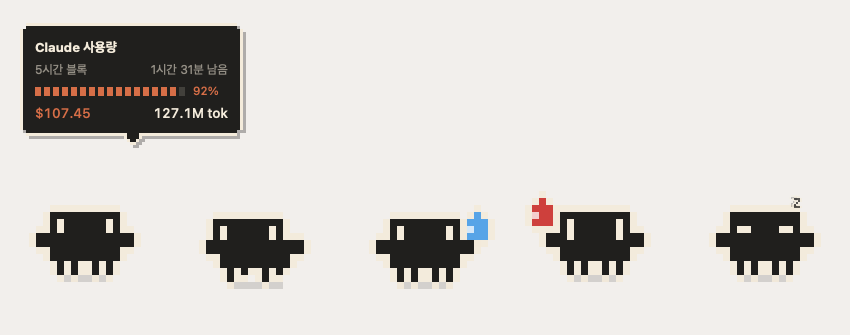
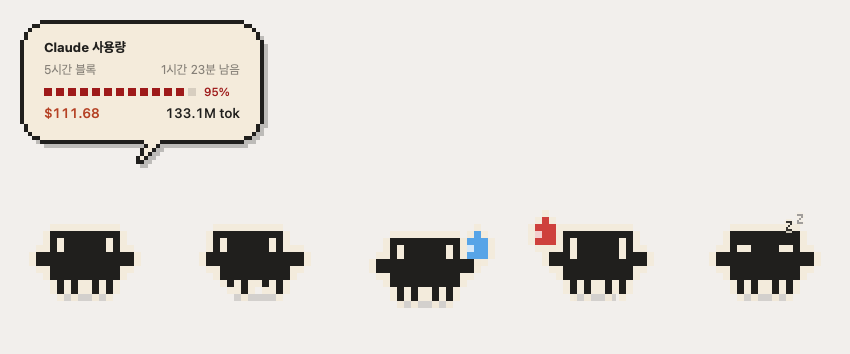
말풍선을 만화식 도트 풍선으로 다시 그림
네모난 대화상자 대신 크림색 종이에 숯색 외곽선을 두른 둥근 풍선으로 바꿨다.
모서리는 원을 칸으로 근사해 계단처럼 깎이고, 꼬리도 비스듬한 계단이다.

- 도안을 칸 집합으로 만들고 한 칸 깎아낸 안쪽을 덧칠해 테두리를 얻는다
- 같은 줄에서 이어진 칸은 한 사각형으로 묶어 그린다
- 도안은 크기와 꼬리 위치가 바뀔 때만 다시 계산한다
- 꼬리 끝이 마스코트 한가운데를 가리키도록 위치를 맞춤

diff --git a/buddy/bubble.py b/buddy/bubble.py
@@ -1,11 +1,14 @@
 """클릭했을 때 뜨는 말풍선.
 
-마스코트와 같은 도트 감성으로 그린다. 모서리는 둥글리지 않고 칸을 덜어내고,
-테두리와 꼬리도 칸을 쌓아 만든다. 그림자도 흐리지 않고 한 칸 밀어 찍는다.
+만화에 나오는 둥근 말풍선을 도트로 찍는다. 모서리는 원을 칸으로 근사해
+계단처럼 깎이고, 꼬리는 왼쪽 아래로 비스듬히 내려간다. 테두리는 도안을
+한 칸 깎아낸 안쪽 면을 덧칠해 만든다 — 마스코트를 그리는 방식과 같다.
 한글은 도트 폰트로 찍을 수 없어서 글자만 시스템 폰트를 쓴다.
 """
 
 from __future__ import annotations
+
+from collections import defaultdict
 
 import objc
 from AppKit import (
@@ -13,8 +16,8 @@ from AppKit import (
     NSColor,
     NSFont,
     NSFontAttributeName,
-    NSForegroundColorAttributeName,
     NSFontWeightMedium,
+    NSForegroundColorAttributeName,
     NSGraphicsContext,
     NSView,
 )
@@ -22,39 +25,46 @@ from Foundation import NSMakePoint, NSMakeRect, NSString
 
 from .usage import Snapshot, fmt_duration, fmt_tokens
 
-P = 3.0                 # 도트 한 칸
-BORDER = 3.0            # 테두리 두께 (한 칸)
-CORNER = 2 * P          # 모서리에서 덜어내는 크기
-PAD_X = 12.0
-PAD_TOP = 10.0
-PAD_BOTTOM = 12.0
+U = 4.0                 # 도트 한 칸
+RADIUS_CELLS = 8        # 모서리 원의 반지름 (칸)
+PAD_X = 24.0
+PAD_TOP = 16.0
+PAD_BOTTOM = 18.0
 CONTENT_W = 196.0
-TAIL_W = 6 * P
-TAIL_H = 3 * P
+
+# 꼬리 도안. (칸x, 칸y) — y 0 이 맨 아래 끝, 위로 갈수록 넓어지며 오른쪽으로 눕는다
+_TAIL = [
+    (0, 0), (1, 0),                              # 끝
+    (0, 1), (1, 1), (2, 1),
+    (1, 2), (2, 2), (3, 2),
+    (1, 3), (2, 3), (3, 3), (4, 3),
+    (2, 4), (3, 4), (4, 4), (5, 4),              # 풍선에 붙는 줄
+]
+TAIL_ROWS = 5
+TAIL_H = TAIL_ROWS * U
+_TAIL_TIP_COL = 0       # 꼬리 끝이 놓이는 칸 (마스코트를 가리키는 지점)
 
 H_TITLE = 24.0
 H_ROW = 20.0
 H_BAR = 24.0
-H_NOTE = 17.0
-H_GAP = 6.0
-
-_HEIGHTS = {"title": H_TITLE, "row": H_ROW, "bar": H_BAR, "note": H_NOTE, "gap": H_GAP}
+H_NOTE = 18.0
+_HEIGHTS = {"title": H_TITLE, "row": H_ROW, "bar": H_BAR, "note": H_NOTE}
 
 
 def _rgb(r, g, b, a=1.0):
     return NSColor.colorWithSRGBRed_green_blue_alpha_(r, g, b, a)
 
 
-# 마스코트와 같은 배색
-INK = _rgb(0.169, 0.161, 0.153)          # 몸통 색 = 말풍선 바탕
-CREAM = _rgb(0.965, 0.937, 0.886)        # 눈·테두리 색 = 글자
-CREAM_DIM = _rgb(0.965, 0.937, 0.886, 0.55)
-TRACK = _rgb(0.965, 0.937, 0.886, 0.16)
-DROP = _rgb(0.0, 0.0, 0.0, 0.28)
+# 마스코트와 같은 배색을 뒤집어 쓴다 — 크림색 종이에 숯색 선
+PAPER = _rgb(0.965, 0.937, 0.886)
+INK = _rgb(0.169, 0.161, 0.153)
+INK_DIM = _rgb(0.169, 0.161, 0.153, 0.52)
+TRACK = _rgb(0.169, 0.161, 0.153, 0.14)
+DROP = _rgb(0.0, 0.0, 0.0, 0.22)
 
-BAR_OK = _rgb(0.451, 0.729, 0.541)
-BAR_WARN = _rgb(0.878, 0.514, 0.349)
-BAR_DANGER = _rgb(0.851, 0.310, 0.267)
+BAR_OK = _rgb(0.306, 0.549, 0.388)
+BAR_WARN = _rgb(0.769, 0.337, 0.184)
+BAR_DANGER = _rgb(0.690, 0.169, 0.133)
 
 
 def bar_color(percent: float):
@@ -99,66 +109,76 @@ def rows_from_snapshot(snap: Snapshot) -> list[dict]:
     return rows
 
 
+def _round_up(value: float) -> float:
+    """칸 격자에 맞춰 올림. 반 칸짜리 조각이 생기면 도트가 흐려진다."""
+    return -(-value // U) * U
+
+
 def measure(rows: list[dict]) -> tuple[float, float]:
-    height = PAD_TOP + PAD_BOTTOM + BORDER * 2 + TAIL_H
-    for row in rows:
-        height += _HEIGHTS[row["type"]]
-    return CONTENT_W + PAD_X * 2 + BORDER * 2, height
+    body = PAD_TOP + PAD_BOTTOM + sum(_HEIGHTS[row["type"]] for row in rows)
+    return _round_up(CONTENT_W + PAD_X * 2), _round_up(body) + TAIL_H
 
 
-def _notched_rect(x, y, w, h, c):
-    """네 모서리에서 정사각형을 하나씩 덜어낸 사각형. 도트 그림의 둥근 모서리."""
-    points = [
-        (x + c, y), (x + w - c, y), (x + w - c, y + c), (x + w, y + c),
-        (x + w, y + h - c), (x + w - c, y + h - c), (x + w - c, y + h), (x + c, y + h),
-        (x + c, y + h - c), (x, y + h - c), (x, y + c), (x + c, y + c),
-    ]
-    path = NSBezierPath.bezierPath()
-    path.moveToPoint_(NSMakePoint(*points[0]))
-    for point in points[1:]:
-        path.lineToPoint_(NSMakePoint(*point))
-    path.closePath()
-    return path
+def _balloon_cells(wc: int, hc: int, radius: int) -> set[tuple[int, int]]:
+    """모서리가 원으로 깎인 사각형을 칸 단위로 채운다."""
+    cells = set()
+    for y in range(hc):
+        for x in range(wc):
+            qx = max(radius - (x + 0.5), (x + 0.5) - (wc - radius), 0.0)
+            qy = max(radius - (y + 0.5), (y + 0.5) - (hc - radius), 0.0)
+            if qx * qx + qy * qy <= radius * radius:
+                cells.add((x, y))
+    return cells
 
 
-def _silhouette(width: float, height: float, tip_x: float, inset: float):
-    """말풍선 바깥선(inset=0)과 안쪽 면(inset=BORDER)을 같은 규칙으로 만든다."""
-    body_bottom = TAIL_H
-    body = _notched_rect(
-        inset,
-        body_bottom + inset,
-        width - inset * 2,
-        height - body_bottom - inset * 2,
-        CORNER - inset,
-    )
+def _erode(cells: set[tuple[int, int]]) -> set[tuple[int, int]]:
+    """상하좌우가 모두 채워진 칸만 남긴다. 남은 가장자리가 테두리가 된다."""
+    return {
+        (x, y)
+        for (x, y) in cells
+        if (x + 1, y) in cells
+        and (x - 1, y) in cells
+        and (x, y + 1) in cells
+        and (x, y - 1) in cells
+    }
 
-    if inset == 0:
-        # 아래로 갈수록 좁아지는 칸 세 개
-        steps = [(6 * P, P), (4 * P, P), (2 * P, P)]
-        y = body_bottom
-        for w, h in steps:
-            y -= h
-            body.appendBezierPathWithRect_(NSMakeRect(tip_x - w / 2, y, w, h))
-    else:
-        # 바깥선보다 한 칸씩 좁고 한 칸 짧게. 몸통과 만나는 지점은 겹쳐서 이어 붙인다.
-        body.appendBezierPathWithRect_(
-            NSMakeRect(tip_x - 2 * P, body_bottom - P, 4 * P, P + BORDER)
-        )
-        body.appendBezierPathWithRect_(
-            NSMakeRect(tip_x - P, body_bottom - 2 * P, 2 * P, P)
-        )
-    return body
+
+def _runs(cells: set[tuple[int, int]]):
+    """같은 줄에서 이어진 칸을 한 덩어리로 묶는다. 사각형 수를 줄여 준다."""
+    rows: dict[int, list[int]] = defaultdict(list)
+    for (x, y) in cells:
+        rows[y].append(x)
+    for y, xs in rows.items():
+        xs.sort()
+        start = prev = xs[0]
+        for x in xs[1:]:
+            if x == prev + 1:
+                prev = x
+                continue
+            yield start, prev, y
+            start = prev = x
+        yield start, prev, y
+
+
+def _shape(wc: int, hc: int, tail_col: int) -> tuple[set, set]:
+    """말풍선 전체 칸과, 한 칸 깎아낸 안쪽 칸."""
+    cells = _balloon_cells(wc, hc, RADIUS_CELLS)
+    for (dx, dy) in _TAIL:
+        cells.add((tail_col - _TAIL_TIP_COL + dx, dy - TAIL_ROWS))
+    return cells, _erode(cells)
 
 
 class BubbleView(NSView):
-    """말풍선 본체. 아래쪽에 계단식 꼬리가 달린다."""
+    """말풍선 본체. 도안을 만들어 두고 크기가 바뀔 때만 다시 계산한다."""
 
     def initWithFrame_(self, frame):
         self = objc.super(BubbleView, self).initWithFrame_(frame)
         if self is None:
             return None
         self._rows: list[dict] = []
-        self._tail_dx = 0.0
+        self._tail_col = None   # 아직 정해지지 않음 — 기본은 가운데
+        self._cache_key = None
+        self._cache = None
         return self
 
     def setRows_(self, rows):
@@ -166,68 +186,79 @@ class BubbleView(NSView):
         self.setNeedsDisplay_(True)
 
     def setTailOffset_(self, dx):
-        """말풍선이 화면 끝에서 밀렸을 때도 꼬리가 마스코트를 가리키게 한다."""
-        limit = CONTENT_W / 2 - TAIL_W
-        self._tail_dx = max(-limit, min(limit, float(dx)))
-        self.setNeedsDisplay_(True)
+        """말풍선이 화면 끝에서 밀렸을 때도 꼬리 끝이 마스코트를 가리키게 한다."""
+        wc = max(1, int(self.bounds().size.width / U))
+        col = int(round((self.bounds().size.width / 2 + float(dx)) / U)) - 1
+        col = max(RADIUS_CELLS, min(wc - RADIUS_CELLS - 6, col))
+        if col != self._tail_col:
+            self._tail_col = col
+            self.setNeedsDisplay_(True)
 
     def isFlipped(self):
         return False
 
+    @objc.python_method
+    def _shape_for(self, width, height):
+        wc = int(width / U)
+        hc = int((height - TAIL_H) / U)
+        tail_col = self._tail_col if self._tail_col is not None else wc // 2 - 2
+        key = (wc, hc, tail_col)
+        if key != self._cache_key:
+            self._cache_key = key
+            self._cache = _shape(wc, hc, tail_col)
+        return self._cache
+
     def drawRect_(self, _rect):
         bounds = self.bounds()
         width, height = bounds.size.width, bounds.size.height
-        tip_x = width / 2 + self._tail_dx
+        cells, inner = self._shape_for(width, height)
 
         ctx = NSGraphicsContext.currentContext()
         ctx.saveGraphicsState()
         ctx.setShouldAntialias_(False)
 
         # 흐린 그림자 대신 한 칸 밀어 찍은 단단한 그림자
-        shadow = _silhouette(width - P, height - P, tip_x, 0)
-        transform = NSBezierPath.bezierPath()
-        transform.appendBezierPath_(shadow)
         DROP.setFill()
-        self._offset(transform, P, -P).fill()
-
-        CREAM.setFill()
-        _silhouette(width - P, height - P, tip_x, 0).fill()
+        self._fill(cells, U, -U)
         INK.setFill()
-        _silhouette(width - P, height - P, tip_x, BORDER).fill()
+        self._fill(cells, 0, 0)
+        PAPER.setFill()
+        self._fill(inner, 0, 0)
 
         ctx.restoreGraphicsState()
         self._draw_rows(width, height)
 
     @objc.python_method
-    def _offset(self, path, dx, dy):
-        from AppKit import NSAffineTransform
-
-        tf = NSAffineTransform.transform()
-        tf.translateXBy_yBy_(dx, dy)
-        return tf.transformBezierPath_(path)
+    def _fill(self, cells, dx, dy):
+        path = NSBezierPath.bezierPath()
+        for x0, x1, y in _runs(cells):
+            path.appendBezierPathWithRect_(
+                NSMakeRect(x0 * U + dx, TAIL_H + y * U + dy, (x1 - x0 + 1) * U, U)
+            )
+        path.fill()
 
     @objc.python_method
     def _draw_rows(self, width, height):
-        x = BORDER + PAD_X
-        y = height - P - BORDER - PAD_TOP
-        inner = width - P - (BORDER + PAD_X) * 2
+        x = PAD_X
+        y = height - PAD_TOP
+        inner = width - PAD_X * 2
 
         for row in self._rows:
             kind = row["type"]
             y -= _HEIGHTS[kind]
             if kind == "title":
-                self._text(row["text"], x, y + 5, NSFont.boldSystemFontOfSize_(13.0), CREAM)
+                self._text(row["text"], x, y + 5, NSFont.boldSystemFontOfSize_(13.0), INK)
             elif kind == "row":
                 strong = row.get("strong", False)
                 font = _num_font(13.5) if strong else NSFont.systemFontOfSize_(12.0)
-                left = BAR_WARN if strong else (CREAM_DIM if row.get("dim") else CREAM)
-                right = CREAM if strong else (CREAM_DIM if row.get("dim") else CREAM)
+                left = BAR_WARN if strong else (INK_DIM if row.get("dim") else INK)
+                right = INK if strong else (INK_DIM if row.get("dim") else INK)
                 self._text(row["left"], x, y + 3, font, left)
                 self._text_right(row["right"], x + inner, y + 3, font, right)
             elif kind == "bar":
                 self._bar(x, y + 8, inner, row["percent"])
             elif kind == "note":
-                self._text(row["text"], x, y + 3, NSFont.systemFontOfSize_(11.5), CREAM_DIM)
+                self._text(row["text"], x, y + 3, NSFont.systemFontOfSize_(11.5), INK_DIM)
 
     @objc.python_method
     def _bar(self, x, y, width, percent):
@@ -235,32 +266,25 @@ class BubbleView(NSView):
         ctx.saveGraphicsState()
         ctx.setShouldAntialias_(False)
 
-        height = 3 * P
+        height = 2 * U
         font = _num_font(11.5)
         label = f"{percent:.0f}%"
         label_w = self._width(label, font) + 8.0
         track_w = width - label_w
 
-        seg = 2 * P
-        gap = P
+        seg, gap = 2 * U, U
         count = max(1, int((track_w + gap) // (seg + gap)))
         used = count * (seg + gap) - gap
 
-        TRACK.setFill()
-        for i in range(count):
-            NSBezierPath.bezierPathWithRect_(
-                NSMakeRect(x + i * (seg + gap), y, seg, height)
-            ).fill()
-
-        bar_color(percent).setFill()
-        lit = int(round(count * min(percent, 100.0) / 100.0))
-        for i in range(lit):
-            NSBezierPath.bezierPathWithRect_(
-                NSMakeRect(x + i * (seg + gap), y, seg, height)
-            ).fill()
+        for color, upto in ((TRACK, count), (bar_color(percent), int(round(count * min(percent, 100.0) / 100.0)))):
+            color.setFill()
+            for i in range(upto):
+                NSBezierPath.bezierPathWithRect_(
+                    NSMakeRect(x + i * (seg + gap), y, seg, height)
+                ).fill()
 
         ctx.restoreGraphicsState()
-        self._text_right(label, x + used + label_w, y - 2, font, bar_color(percent))
+        self._text_right(label, x + used + label_w, y - 3, font, bar_color(percent))
 
     @objc.python_method
     def _text(self, text, x, y, font, color):
@@ -270,9 +294,7 @@ class BubbleView(NSView):
 
     @objc.python_method
     def _width(self, text, font):
-        return NSString.stringWithString_(text).sizeWithAttributes_(
-            _attrs(font, CREAM)
-        ).width
+        return NSString.stringWithString_(text).sizeWithAttributes_(_attrs(font, INK)).width
 
     @objc.python_method
     def _text_right(self, text, right_x, y, font, color):

diff --git a/tools/render_preview.py b/tools/render_preview.py
@@ -92,6 +92,7 @@ def main() -> None:
     # 캐시 비트맵으로 합치면 뷰의 불투명 배경까지 같이 딸려온다.
     view = BubbleView.alloc().initWithFrame_(NSMakeRect(0, 0, bubble_w, bubble_h))
     view.setRows_(rows)
+    view.setTailOffset_(0)   # 마스코트가 바로 아래에 있을 때
 
     NSGraphicsContext.saveGraphicsState()
     NSGraphicsContext.setCurrentContext_(ctx)
